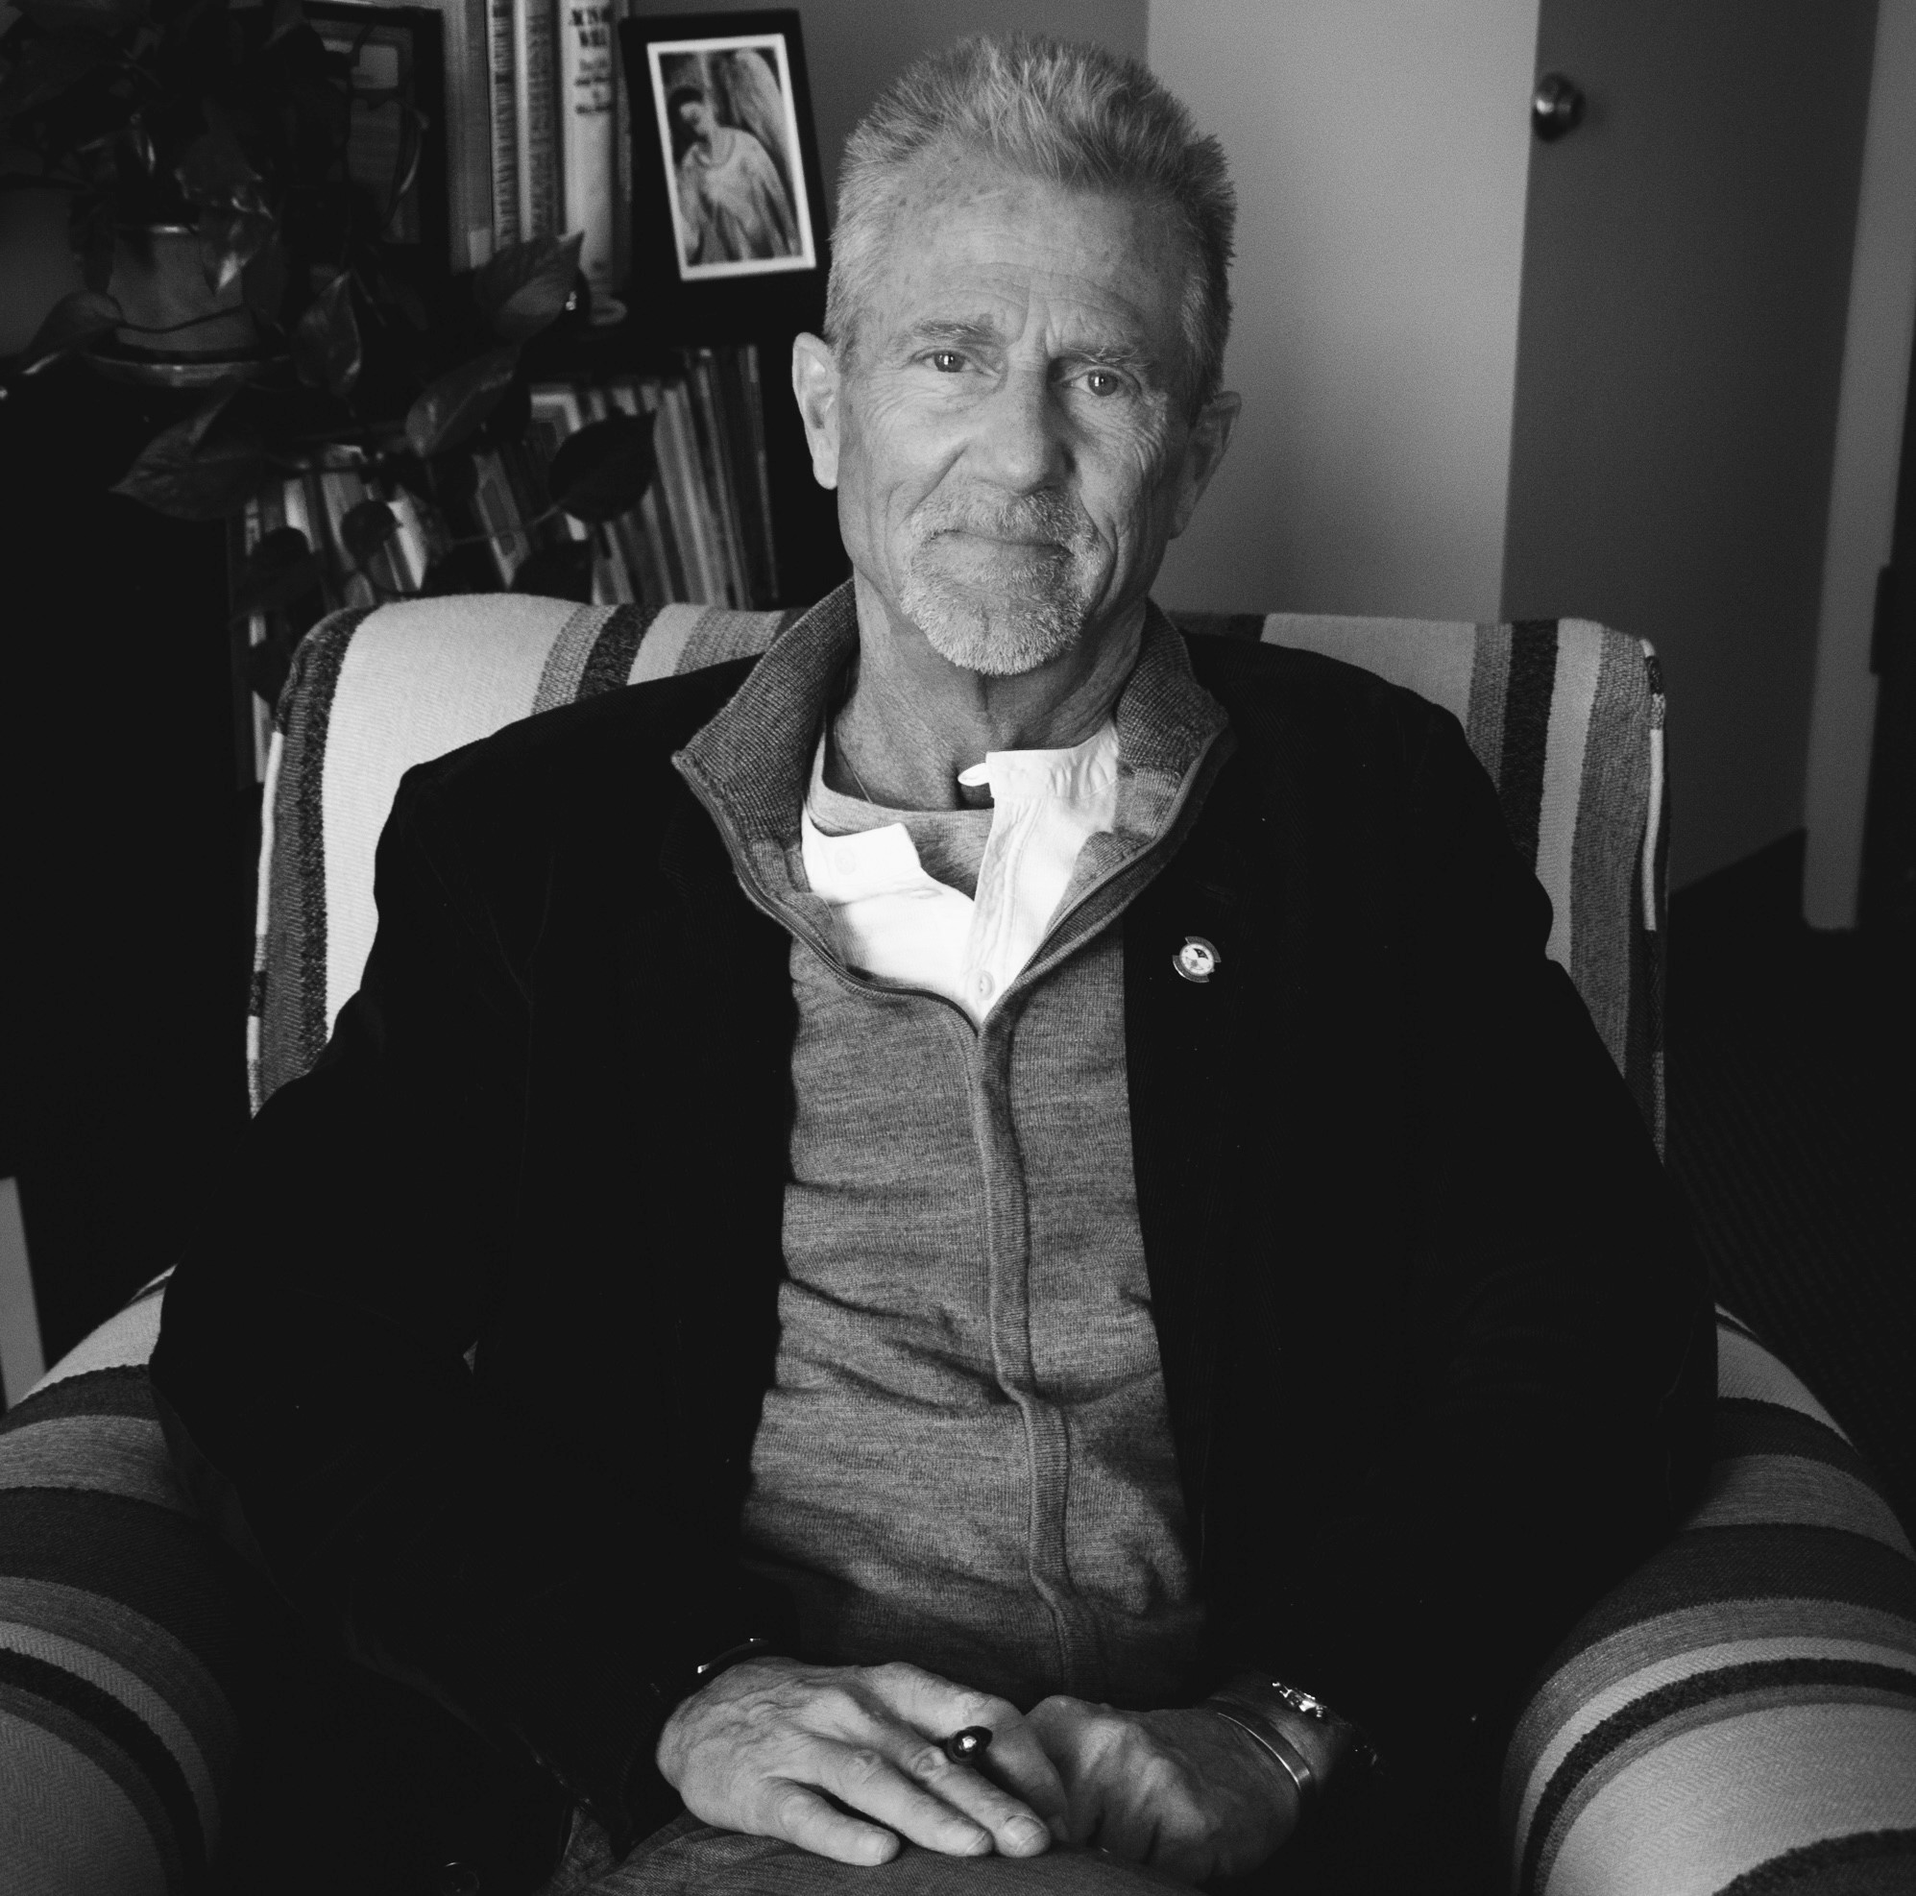
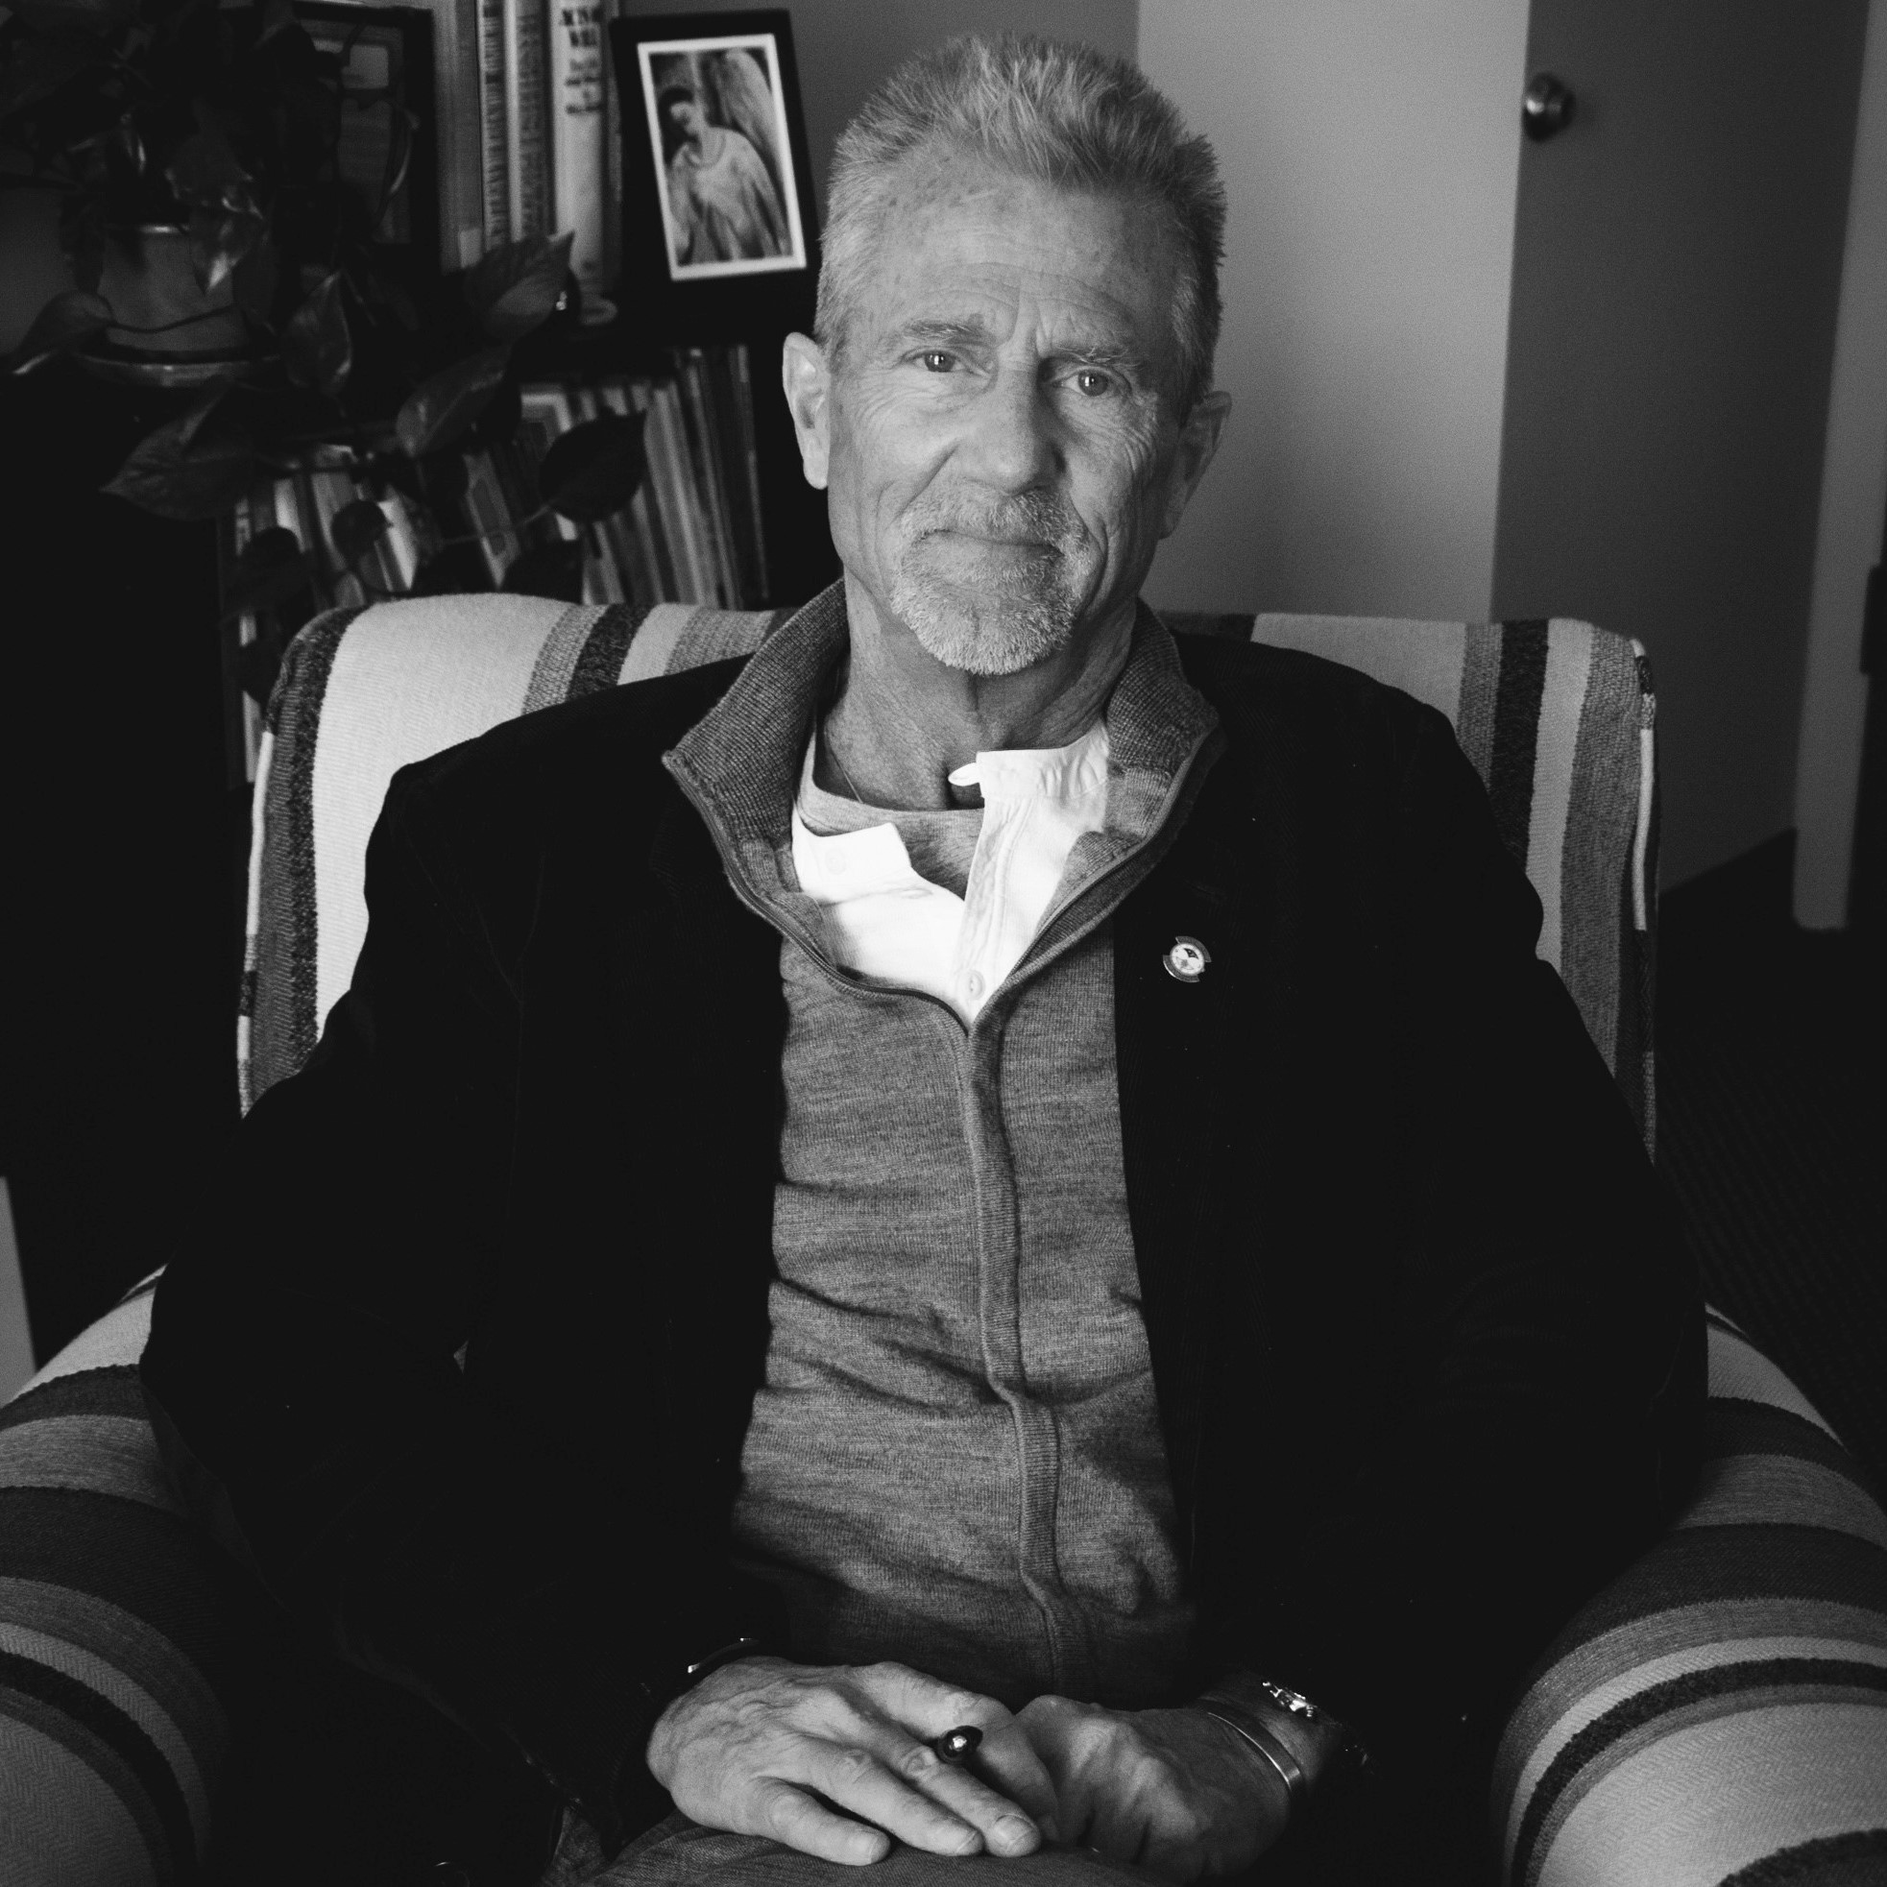
Added Image overlay

diff --git a/index.html b/index.html
@@ -74,12 +74,12 @@
     </div>
 
     <div class="d-flex flex-column">
-        <div class="row d-flex my-0">
-
-        </div>
         <div class="d-flex flex-column justify-content-center">
-            <div class="row" data-aos="fade-left" data-aos-delay="250">
-                <div class="col-lg-6"><img class="img-fluid john" src="/images/john-otte.jpg" alt=""></div>
+            <div class="row d-flex justify-content-center">
+                <div class="col-lg-6 john-container p-0">
+                    <h1 class="imageOverlay">MORE ABOUT JOHN</h1>
+                    <img class="john" src="/images/john-otte.jpg" alt="">
+                </div>
                 <div class="d-flex flex-column col-lg-6 justify-content-center align-items-center">
                     <div class="d-flex justify-content-center">
                         <h1 class="my-3 welcomeHeader d-flex justify-content-center">

diff --git a/app.css b/app.css
@@ -149,6 +149,28 @@ body {
     z-index: 2;
     height: 100%;
 } */
+.john {
+  width: 100%;
+}
+.john-container{
+  position: relative;
+
+}
+.imageOverlay {
+  position: absolute;
+  color: rgba(255, 255, 255, 0);
+  width: 100%;
+  height: 100%;
+  justify-content: center;
+  align-items: center;
+  display: flex;
+  transition: all 0.5s ease;
+  cursor: pointer;
+}
+.imageOverlay:hover {
+  color: #fff;
+  background: rgba(0, 0, 0, 0.5); 
+}
 .welcomeHeader {
   background-color: rgba(128, 184, 137, 0); 
   text-decoration:underline;
